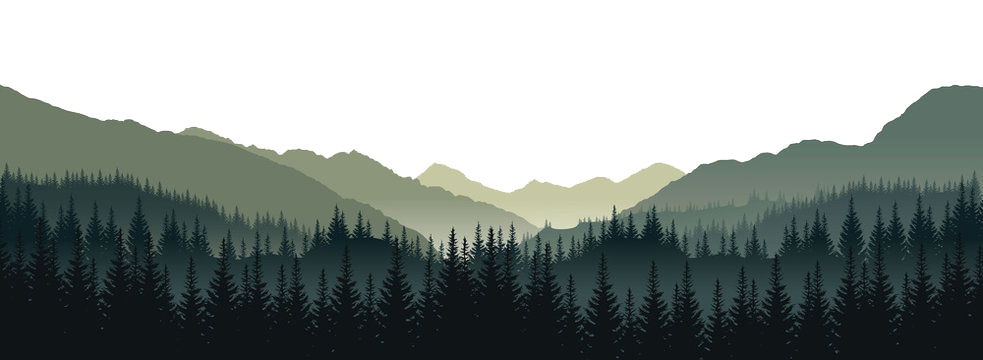
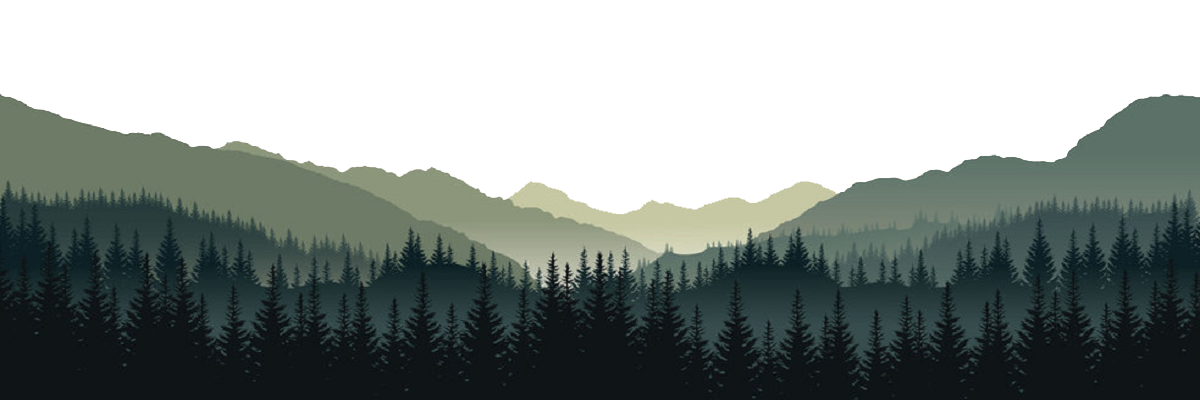
updates

diff --git a/pygameLevelEditor.py b/pygameLevelEditor.py
@@ -18,9 +18,11 @@ pg.display.set_caption('Level Editor')
 # bg1 = pg.image.load('Images/bg1.png').convert_alpha()
 # bg2 = pg.image.load('Images/bg2.png').convert_alpha()
 bg_sky = pg.image.load('Images/sky.png').convert_alpha()
+bg_mountain = pg.image.load('Images/mountain.png').convert_alpha()
 
 def draw_Background():
     screen.blit(bg_sky,(0,0))
+    screen.blit(bg_mountain,(0,SCREEN_HEIGHT - bg_mountain.get_height()))
 
 while run:
 
